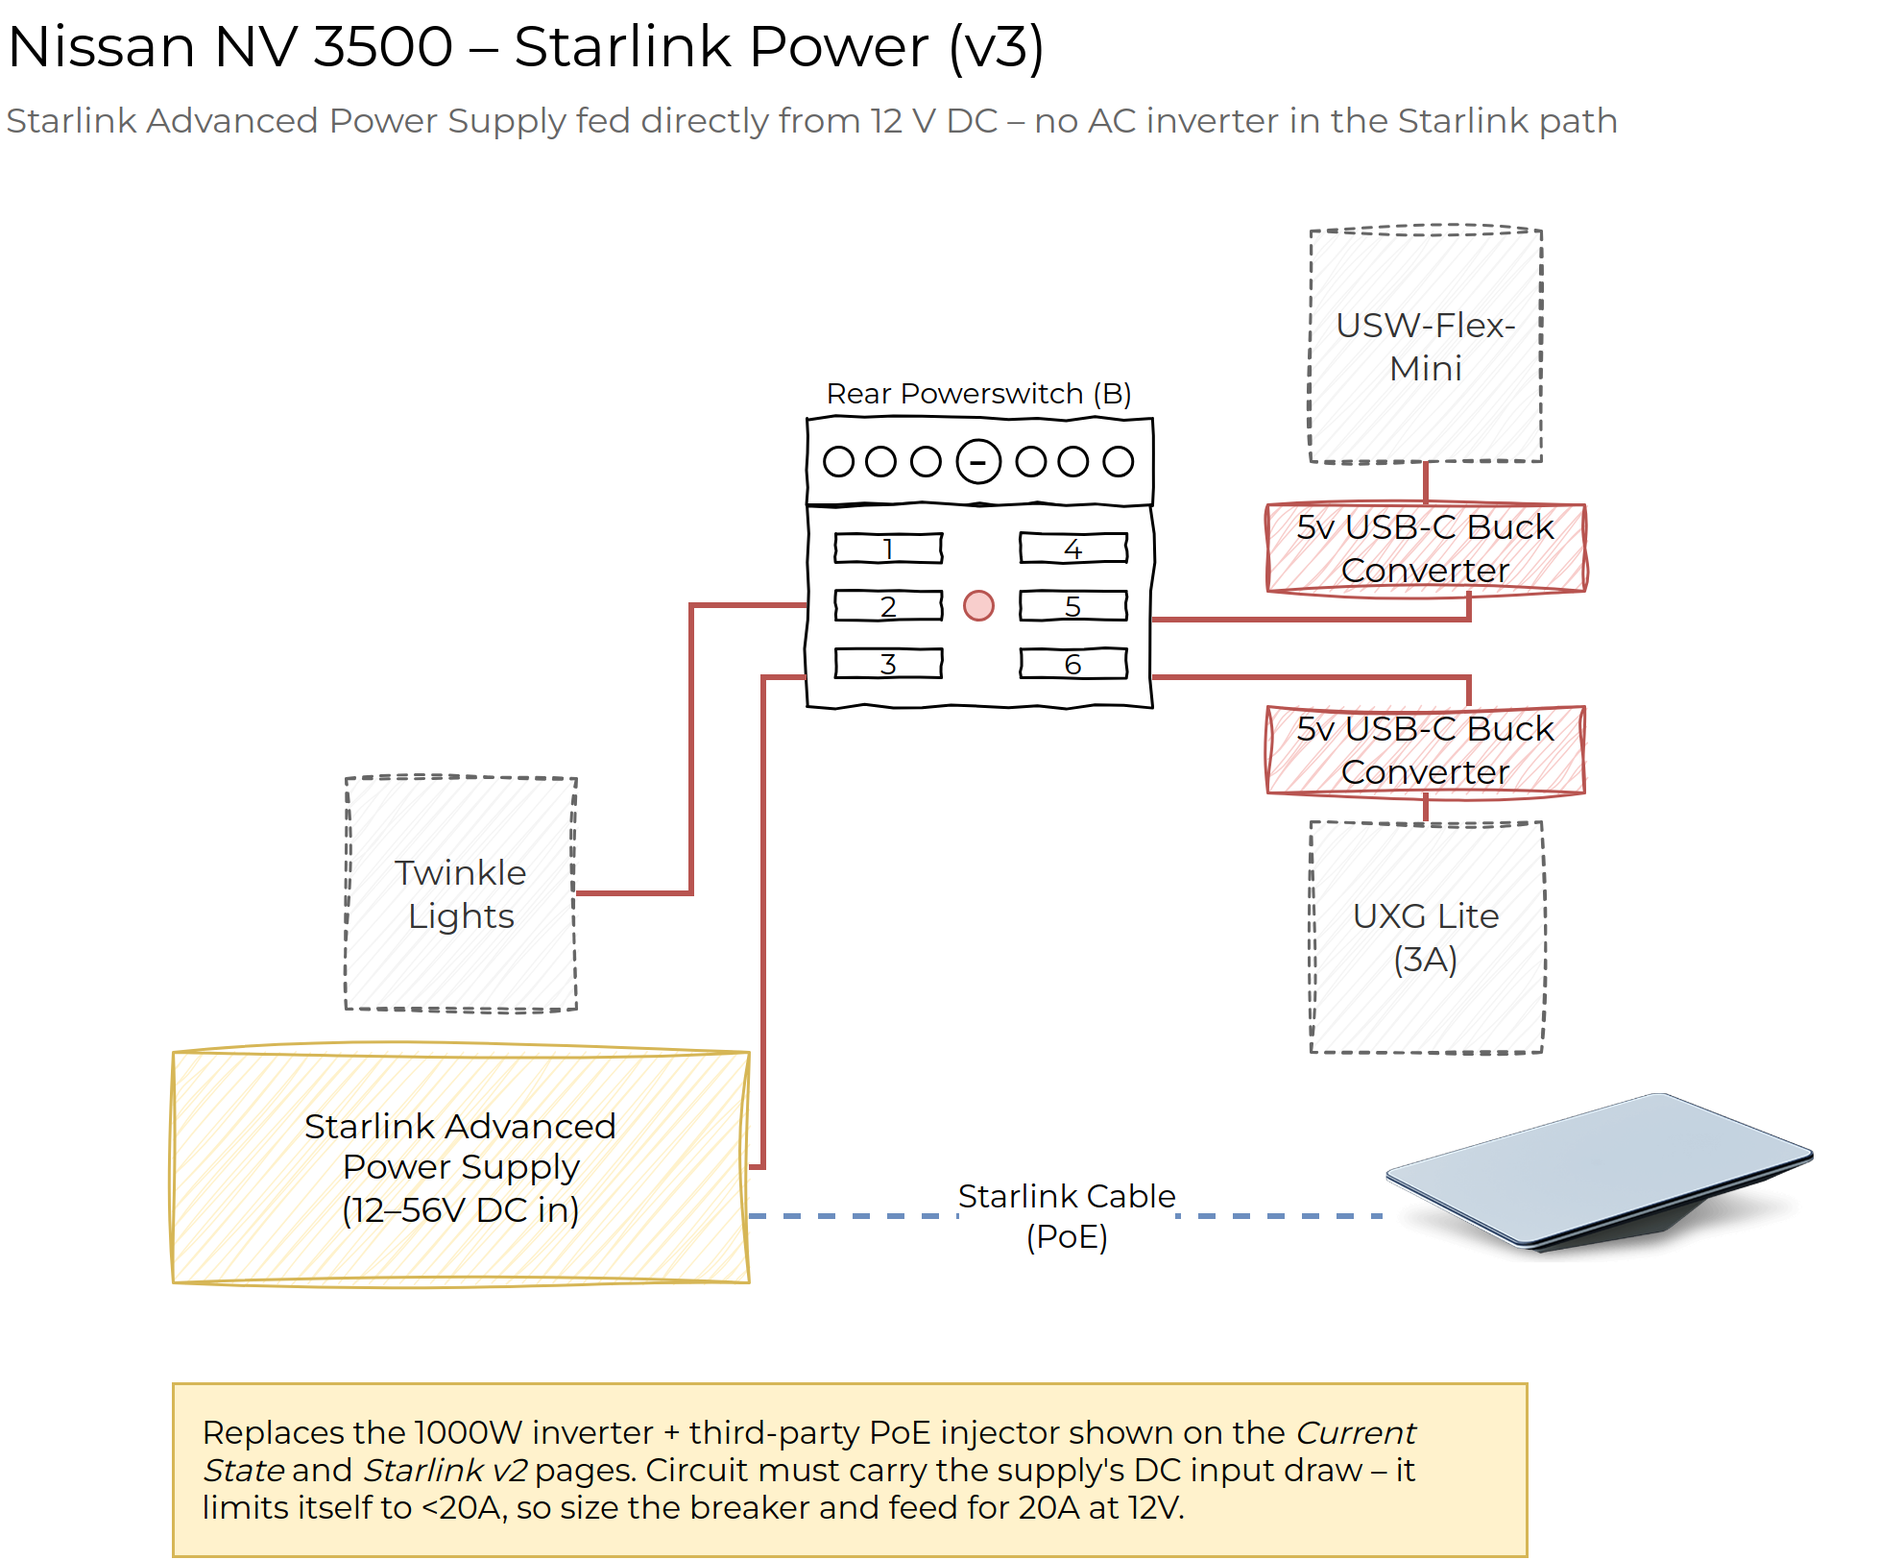
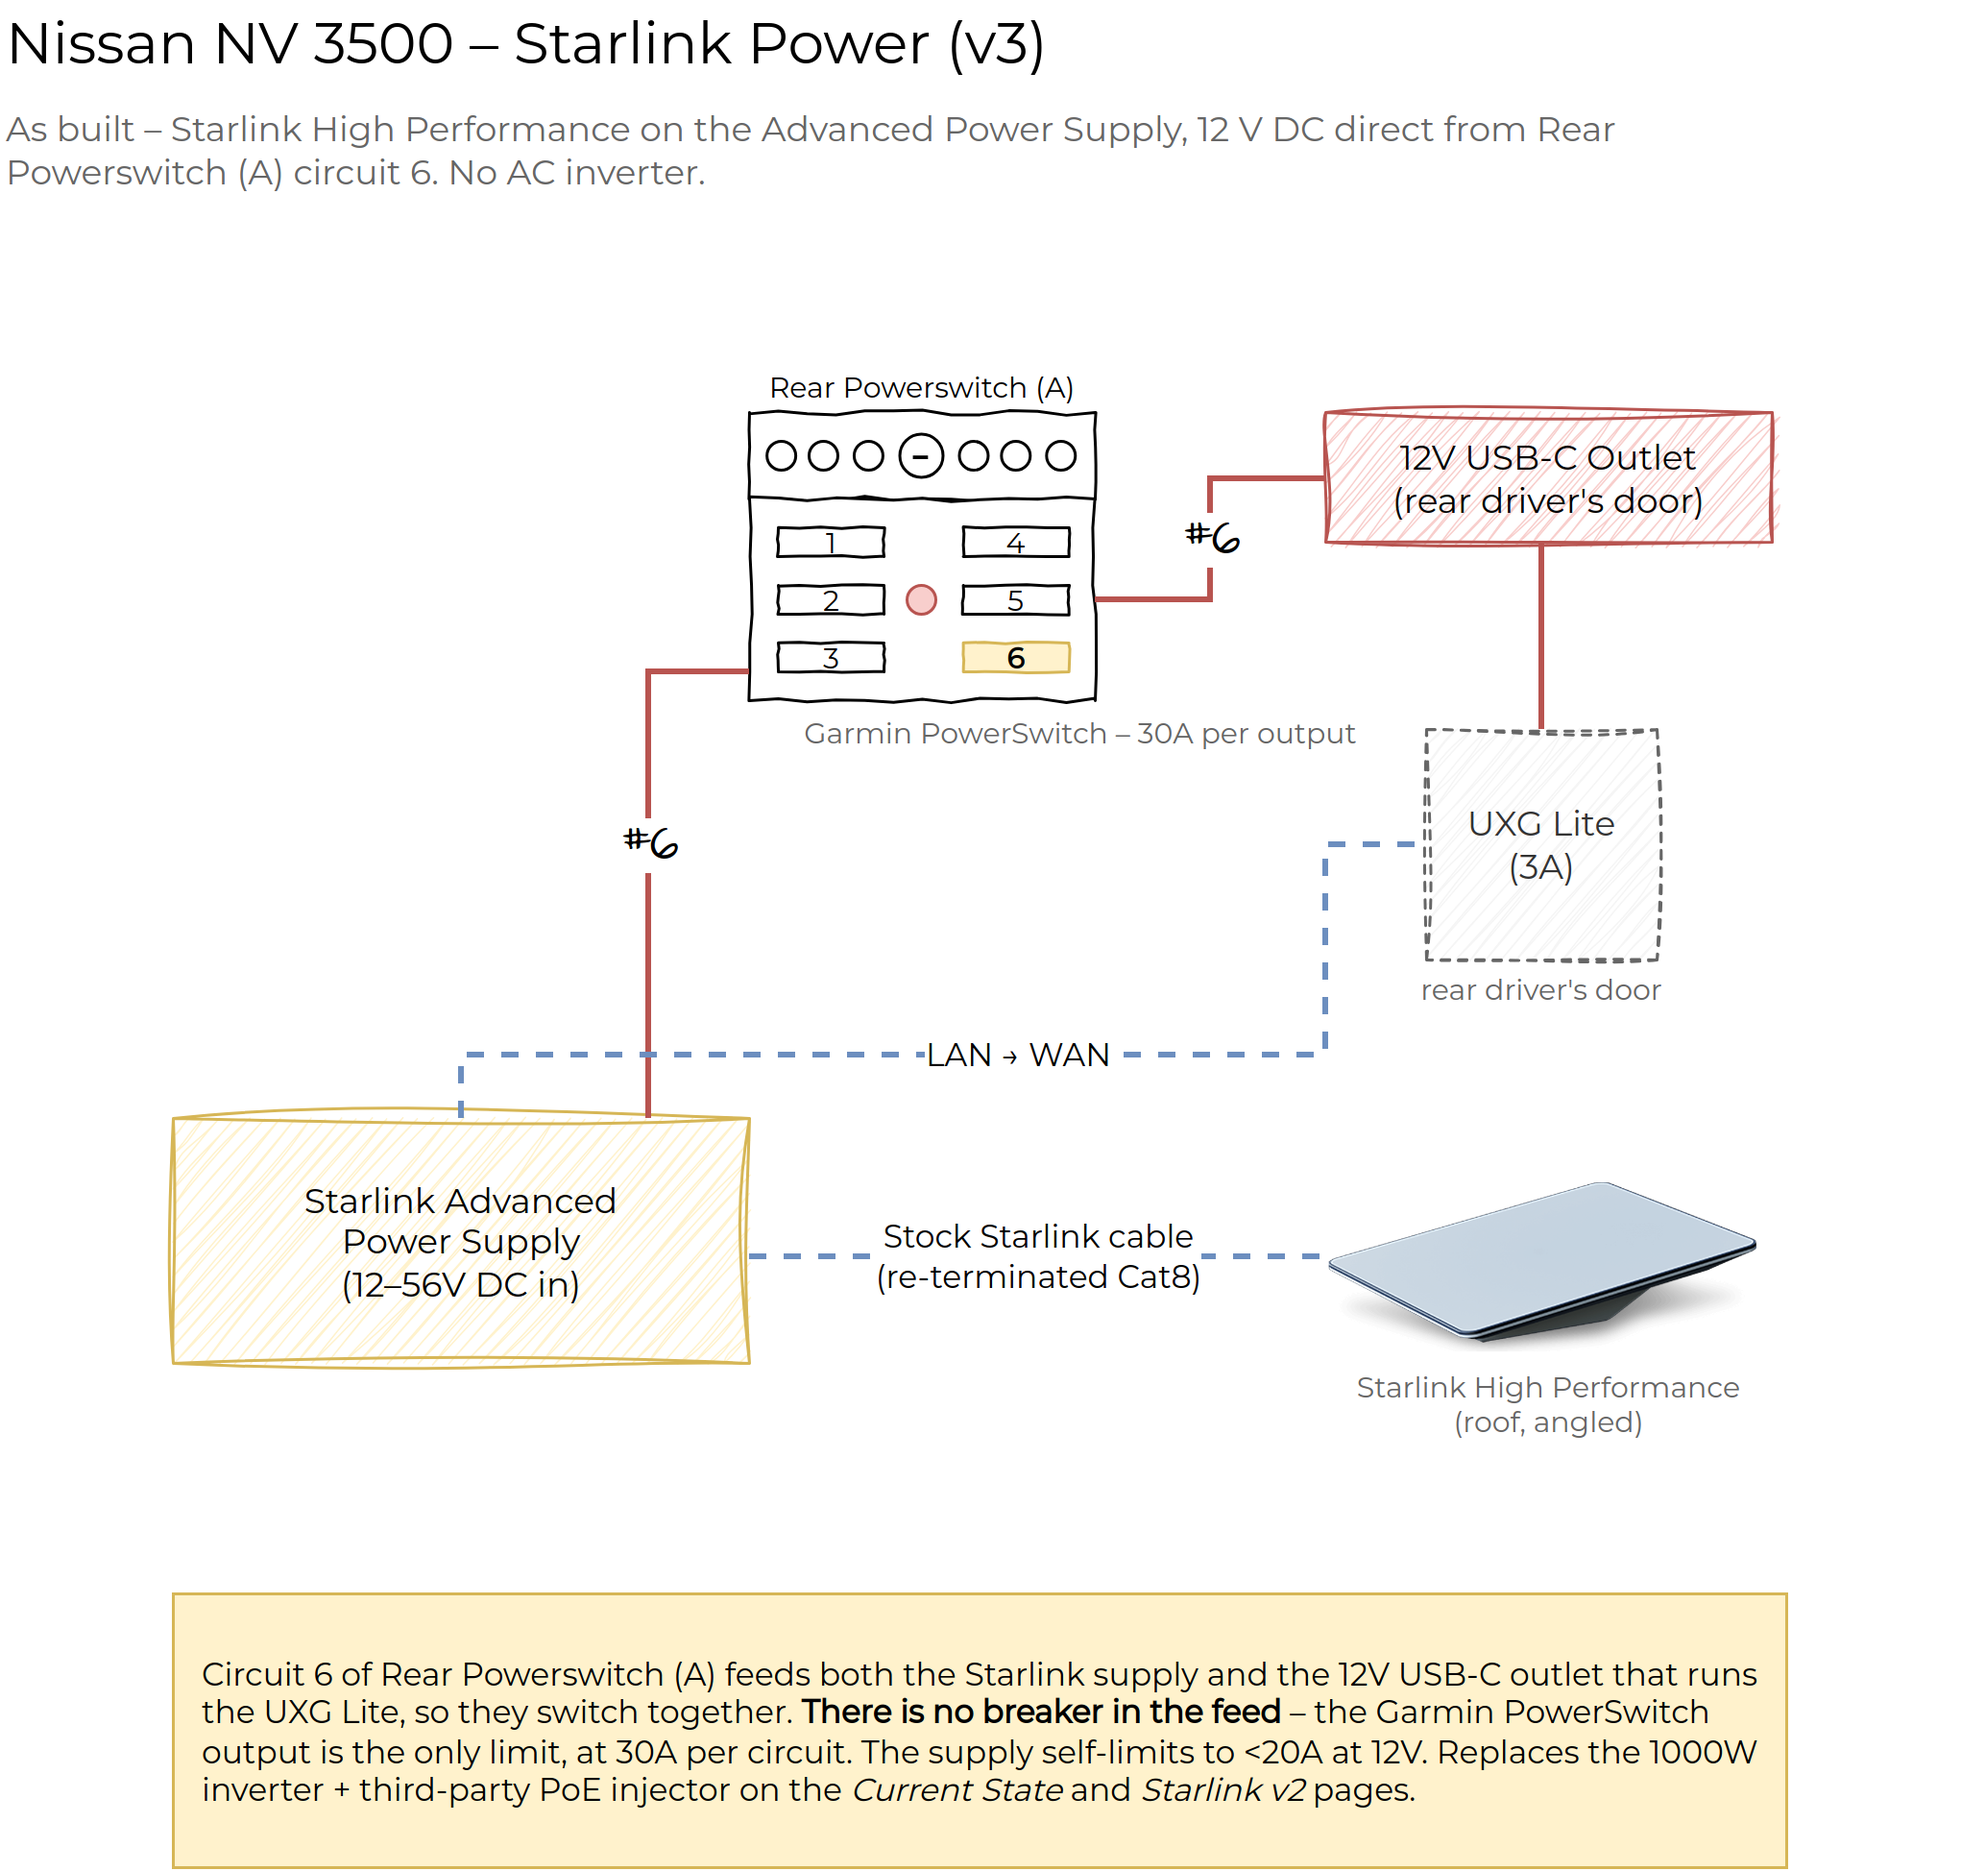
docs(nv): Starlink as-built — REAR-A circuit 6, HP dish, Garmin limits
Corrects the Starlink v3 drawing and pages to the wiring as it actually
stands, not the redesign plan.

Circuit:
- Moves the Starlink Advanced Power Supply from Rear Powerswitch (B) to
  Rear Powerswitch (A) circuit 6, and highlights circuit 6 on the panel.
- Circuit 6 is shared: it also triggers the 12V USB-C outlet in the rear
  driver's door that powers the UXG Lite, so the two switch together.
- Drops the USW-Flex-Mini and the two 5V buck converters — the UXG Lite is
  the only network device in use.

Hardware, confirmed:
- Dish is the original Starlink High Performance, roof mounted at an angle.
- Dish cable is the stock Starlink cable, cut and re-terminated with a Cat8
  connector.
- Supply's LAN port lands on the UXG Lite WAN input (now drawn).
- 12V outlet and UXG Lite are both in the rear driver's door.

Protection: there is no breaker on the circuit 6 run. The panels are Garmin
PowerSwitch boxes, which cap each output at 30A (100A system, per Garmin's
spec), so that rating is what protects the branch — recorded with the
consequence that the conductor must be sized to 30A rather than to expected
draw.

The Devices drawing still shows the earlier grouping on Rear Powerswitch (B);
both pages now call out plan-vs-as-built and carry reconciling it as an
outstanding item, since dropping the switch leaves the Nvidia Shield network
connections undefined.

Claude-Session: https://claude.ai/code/session_01EaLtZri3wcLpfbWySb9peK

diff --git a/docs/nissan_nv/01-power-systems/01-starlink-power.md b/docs/nissan_nv/01-power-systems/01-starlink-power.md
@@ -8,11 +8,12 @@ tags:
 
 # 1.1 Starlink Power {#starlink-power}
 
-Starlink runs off a **Starlink Advanced Power Supply** fed directly from the
-van's 12 V DC system. This replaces the 1000 W AC inverter the dish was
-originally powered through, and closes [#4][issue-4].
+The original **Starlink High Performance** dish runs off a **Starlink Advanced
+Power Supply** fed directly from the van's 12 V DC system. This replaces the
+1000 W AC inverter the dish was originally powered through, and closes
+[#4][issue-4].
 
-![Nissan NV 3500 Starlink power - Rear Powerswitch (B) feeding the Starlink Advanced Power Supply, which feeds the dish over the Starlink cable](../images/van-starlink-power.png)
+![Nissan NV 3500 Starlink power - Rear Powerswitch (A) circuit 6 feeding both the Starlink Advanced Power Supply and the 12 V USB-C outlet that runs the UXG Lite](../images/van-starlink-power.png)
 
 *Diagram source: `Van Electrical.drawio` (page "Starlink v3"); the image is regenerated from the draw.io file on each export.*
 
@@ -65,22 +66,46 @@ The alternatives worked through in [#4][issue-4] were all worse:
 
 ## Circuit {#circuit}
 
-The supply is switched from **Rear Powerswitch (B)**, alongside the Twinkle
-Lights and the two 5 V USB-C buck converters that run the UniFi gear.
+The supply is switched from **Rear Powerswitch (A), circuit 6** - a
+[Garmin PowerSwitch][garmin-spec]. That circuit is shared: it also triggers the
+**12 V USB-C outlet in the rear driver's door**, which is what powers the UniFi
+UXG Lite.
 
 | Item | Value |
 | :--- | :---- |
-| Source | Rear Powerswitch (B), AUX battery side |
+| Source | Rear Powerswitch (A), **circuit 6** (Garmin PowerSwitch) |
+| Shares the circuit with | 12 V USB-C outlet (rear driver's door) → UXG Lite (3 A) |
 | Nominal system voltage | 12 V DC |
-| Design current | Size the feed and breaker for **20 A** - the supply's own self-limit |
-| Supplied DC cable | 1.5 m, 2-pin (red +, black −) |
-| Output to dish | Starlink cable, PoE |
+| Overcurrent protection | **No separate breaker.** The Garmin PowerSwitch output is the limit: 30 A max per output, 100 A max system ([Garmin specs][garmin-spec]) |
+| Expected draw | Up to ~20 A - the supply's own self-limit at 12 V - plus the USB-C outlet |
+| Supplied DC cable | Starlink DC Power Cable, 1.5 m, 2-pin (red +, black −) |
+| Output to dish | Stock Starlink cable, cut and re-terminated with a Cat8 connector |
+| LAN port | → UXG Lite **WAN** input |
 
-!!! note "Size for 20 A, not for average draw"
-    The dish averages 75-100 W, which at 12 V is only 6-9 A. Do not size the
-    circuit on that number. The supply will pull up to its own ~20 A limit
-    during snow melt and cold-start, so the breaker, the wire, and the
-    Powerswitch circuit all need to carry 20 A continuously.
+!!! warning "Circuit 6 carries two loads and they switch together"
+    Because the Starlink supply and the 12 V USB-C outlet share circuit 6,
+    killing Starlink at the panel also kills the UXG Lite - the gateway and the
+    uplink drop together. That may be exactly what you want; it is worth knowing
+    it is not two independent switches.
+
+!!! note "Protection comes from the PowerSwitch, not a breaker"
+    There is no inline breaker on the circuit 6 run. The Garmin PowerSwitch
+    caps each output at **30 A**, which is what protects the branch. That is
+    comfortably above the supply's ~20 A self-limit plus the USB-C outlet, so
+    the arrangement works - but it means the **wire from the PowerSwitch to the
+    supply must itself be rated for 30 A**, since that is the most the output
+    will pass before shutting down. Size the conductor to the output rating, not
+    to the expected draw.
+
+---
+
+## Physical layout {#layout}
+
+| Item | Location |
+| :--- | :------- |
+| Starlink High Performance dish | Roof, mounted at an angle |
+| 12 V USB-C outlet | Rear driver's door |
+| UXG Lite | Rear driver's door |
 
 ---
 
@@ -92,20 +117,22 @@ Both of these come out of the Starlink path:
   diagrams](../02-diagrams/index.md), which document the system as it was
   before this change. It may still be wanted for other AC loads; that is a
   separate decision.
-- **Third-party PoE injector** - the Yaosheng 8 A injector and its modified
-  PoE cable, shown on the superseded "Starlink v2" page.
+- **Third-party PoE injector** - the Yaosheng 8 A injector, shown on the
+  superseded "Starlink v2" page. The dish cable is now the stock Starlink cable,
+  cut and re-terminated with a Cat8 connector so it lands properly on the
+  supply's PoE port.
 
 ---
 
 ## Outstanding Items
 
-- [ ] Confirm which dish is in the van (High Performance / Flat High Performance vs. Performance) and that the Advanced Power Supply is the supported supply for it
-- [ ] Confirm the dish-side cable - whether the existing run reuses the modified PoE cable or is replaced by a stock Starlink cable
 - [ ] Measure real-world draw at 12 V (idle, streaming, snow melt) and record it here
-- [ ] Pick the breaker size and wire gauge for the Rear Powerswitch (B) circuit and record the run length
-- [ ] Decide where the LAN port lands - UXG Lite WAN, or the USW-Flex-Mini
-- [ ] Record the mounting location and orientation of the supply
+- [ ] Record the wire gauge and run length for the circuit 6 feed - it must be rated for the PowerSwitch's 30 A output, not just the expected draw
+- [ ] Confirm the fuse on the Garmin PowerSwitch's own battery feed (Garmin's manual references a 125 A fuse on the supplied red power cable)
+- [ ] Record where the Advanced Power Supply itself is mounted
+- [ ] Confirm the re-terminated dish cable is wired to Starlink's pinout and that the run length is within spec
 
 [issue-4]: https://github.com/sob/shopmanual.io/issues/4
 [spec-sheet]: https://starlink.com/public-files/specification_sheet_performance.pdf
 [dc-support]: https://starlink.com/support/article/d92539dd-f4f6-df83-284a-33cc48fe35b5
+[garmin-spec]: https://www8.garmin.com/manuals/webhelp/GUID-16B1D74D-857B-4FFB-8DE2-A0960FE0D090/EN-US/GUID-E9A53DAE-B84A-4E4F-9488-5536604B1779.html

diff --git a/docs/nissan_nv/01-power-systems/index.md b/docs/nissan_nv/01-power-systems/index.md
@@ -19,17 +19,29 @@ A 200 A SGP32 relay and 600 A manual cutoffs isolate the AUX side.
 
 ## Distribution
 
-Accessory loads are split across four switch panels, each a 6-circuit
-Powerswitch:
+Accessory loads are split across four [Garmin PowerSwitch][garmin-spec] boxes.
+Each is a 6-circuit digital switch box rated **30 A max per output, 100 A max
+system**, at 12-16 V. There are no separate breakers on the branch circuits -
+the PowerSwitch output rating is the protection, so branch conductors are sized
+to the output rating rather than to expected load.
 
 | Panel | Location | Feeds |
 | :---- | :------- | :---- |
-| **Rear Powerswitch (A)** | Rear seat | 3x Alpine PKG-RES3HDMI headrest screens (5 A each), 3x Nvidia Shield |
+| **Rear Powerswitch (A)** | Rear seat | 3x Alpine PKG-RES3HDMI headrest screens (5 A each), 3x Nvidia Shield. **Circuit 6 as built:** Starlink Advanced Power Supply + 12 V USB-C outlet (rear driver's door) → UXG Lite |
 | **Rear Powerswitch (B)** | Rear | Starlink Advanced Power Supply, USB power outlets, Twinkle Lights, and two 5 V USB-C buck converters feeding the UniFi USW-Flex-Mini and UXG Lite (3 A) |
 | **Front Powerswitch** | Front seat | Midland MXTX575 (15 A), rearview mirror, radar detector (2 A) |
 | **Engine Bay Powerswitch** | Engine bay | KC 50" light bar (45 A), KC reverse lights (8 A), KC bumper lights, KC rock lights (2.5 A), KC fog lights |
 
 Both rear panels sit downstream of the **Rear Powerswitch (A) & (B) cutoff**.
+
+!!! warning "The table above is the redesign drawing, not the as-built"
+    The Devices drawing puts Starlink and the UniFi gear on Rear Powerswitch (B)
+    behind two 5 V buck converters, with a USW-Flex-Mini switch. That is not how
+    it is wired today: **Starlink and the UXG Lite are both on Rear Powerswitch
+    (A) circuit 6**, the UXG Lite runs off a 12 V USB-C outlet in the rear
+    driver's door, and the USW-Flex-Mini is not in use. See
+    [Starlink Power](01-starlink-power.md). The drawing needs reconciling - see
+    Outstanding Items.
 
 ---
 
@@ -42,9 +54,12 @@ Both rear panels sit downstream of the **Rear Powerswitch (A) & (B) cutoff**.
 ## Outstanding Items
 
 - [ ] Document wire gauges and run lengths for each panel feed
-- [ ] Document circuit-by-circuit breaker sizing on all four Powerswitch panels
+- [ ] Document circuit-by-circuit conductor sizing on all four PowerSwitch panels against the 30 A output rating
 - [ ] Confirm AUX battery capacity against measured house load (see [#4][issue-4] discussion - a single 100 Ah bank was judged undersized with a fridge on it)
 - [ ] Decide whether the Genesis Offroad dual-battery tray (see [Diagrams](../02-diagrams/index.md)) is being used or dropped
 - [ ] Document the grounding scheme - the drawings show no ground returns
+- [ ] Reconcile the Devices redesign drawing with the as-built wiring: Starlink + UXG Lite moved to Rear Powerswitch (A) circuit 6, USW-Flex-Mini dropped
+- [ ] Decide where the 3x Nvidia Shield network connections land now that the USW-Flex-Mini is out
 
 [issue-4]: https://github.com/sob/shopmanual.io/issues/4
+[garmin-spec]: https://www8.garmin.com/manuals/webhelp/GUID-16B1D74D-857B-4FFB-8DE2-A0960FE0D090/EN-US/GUID-E9A53DAE-B84A-4E4F-9488-5536604B1779.html

diff --git a/docs/nissan_nv/02-diagrams/index.md b/docs/nissan_nv/02-diagrams/index.md
@@ -16,8 +16,10 @@ the image.
 
 ## Starlink Power (v3) {#starlink-v3}
 
-The current Starlink feed: Rear Powerswitch (B) → Starlink Advanced Power
-Supply → dish, on 12 V DC with no inverter. Written up in
+The Starlink feed as built: Rear Powerswitch (A) circuit 6 → Starlink Advanced
+Power Supply → High Performance dish, on 12 V DC with no inverter. The same
+circuit triggers the 12 V USB-C outlet that runs the UXG Lite, and the supply's
+LAN port feeds the UXG Lite WAN input. Written up in
 [Starlink Power](../01-power-systems/01-starlink-power.md).
 
 ![Starlink power v3 - Advanced Power Supply on 12 V DC](../images/van-starlink-power.png)
@@ -29,6 +31,12 @@ Supply → dish, on 12 V DC with no inverter. Written up in
 Device-level view of the power redesign: all four Powerswitch panels and
 everything hanging off them, with the legend counting how each load is
 controlled.
+
+!!! info "This is the plan, not the as-built"
+    The redesign groups Starlink and the UniFi gear on Rear Powerswitch (B) and
+    includes a USW-Flex-Mini switch. As built, Starlink and the UXG Lite are on
+    **Rear Powerswitch (A) circuit 6** and there is no Ethernet switch - see
+    [Starlink Power](../01-power-systems/01-starlink-power.md).
 
 ![Nissan NV 3500 power redesign, device level](../images/van-devices.png)
 

diff --git a/docs/nissan_nv/index.md b/docs/nissan_nv/index.md
@@ -36,10 +36,10 @@ system that have been decided.
 
 | Area | State |
 | :--- | :---- |
-| **Starlink power** | Resolved - [Starlink Advanced Power Supply](01-power-systems/01-starlink-power.md) replaces the 1000 W inverter ([#4][issue-4]) |
+| **Starlink power** | Resolved - High Performance dish on a [Starlink Advanced Power Supply](01-power-systems/01-starlink-power.md), 12 V DC direct, replacing the 1000 W inverter ([#4][issue-4]) |
 | **House battery** | Two Odyssey AGM Group 34 (START + AUX), BCDC Alpha 50 |
 | **Entertainment** | 3x Nvidia Shield + 3x Alpine PKG-RES3HDMI headrest screens |
-| **Network** | UniFi UXG Lite gateway, USW-Flex-Mini switch |
+| **Network** | UniFi UXG Lite gateway in the rear driver's door, powered from a 12 V USB-C outlet on Rear Powerswitch (A) circuit 6; WAN from the Starlink supply's LAN port |
 | **Lighting** | KC light bar, bumper, rock, reverse, and fog lights on the engine bay panel |
 
 [issue-4]: https://github.com/sob/shopmanual.io/issues/4
